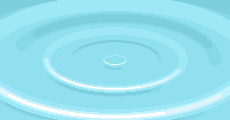
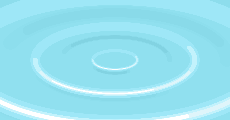
final commit

diff --git a/index.html b/index.html
@@ -11,7 +11,7 @@
     <script type="text/javascript" src="b64.js"></script>
     <script type="text/javascript" src="z_recorder.js"></script>
     <script language="javascript" type="text/javascript" src="simplex-noise.js"></script>
-    <script language="javascript" type="text/javascript" src="canvas_size_normal.js"></script>
+    <script language="javascript" type="text/javascript" src="canvas_size_large.js"></script>
     <script language="javascript" type="text/javascript" src="draw_one_frame.js"></script>
     <script language="javascript" type="text/javascript" src="code.js"></script>
     <style> body {padding: 0; margin: 0;} </style>

diff --git a/code.js b/code.js
@@ -4,7 +4,7 @@ const debugZoomBackground = "#555588"
 const debugZoomScale = 0.5;
 
 // this can be modified after we discuss in lecture
-const buffersPerFrame =2;
+const buffersPerFrame =10;
 
 // probably best not to modify anything below this line
 const frameMax = 24;

diff --git a/draw_one_frame.js b/draw_one_frame.js
@@ -185,7 +185,3 @@ function draw_one_frame(cur_frac) {
 	//=========================================================================
 }
 		
-
-
-
-
